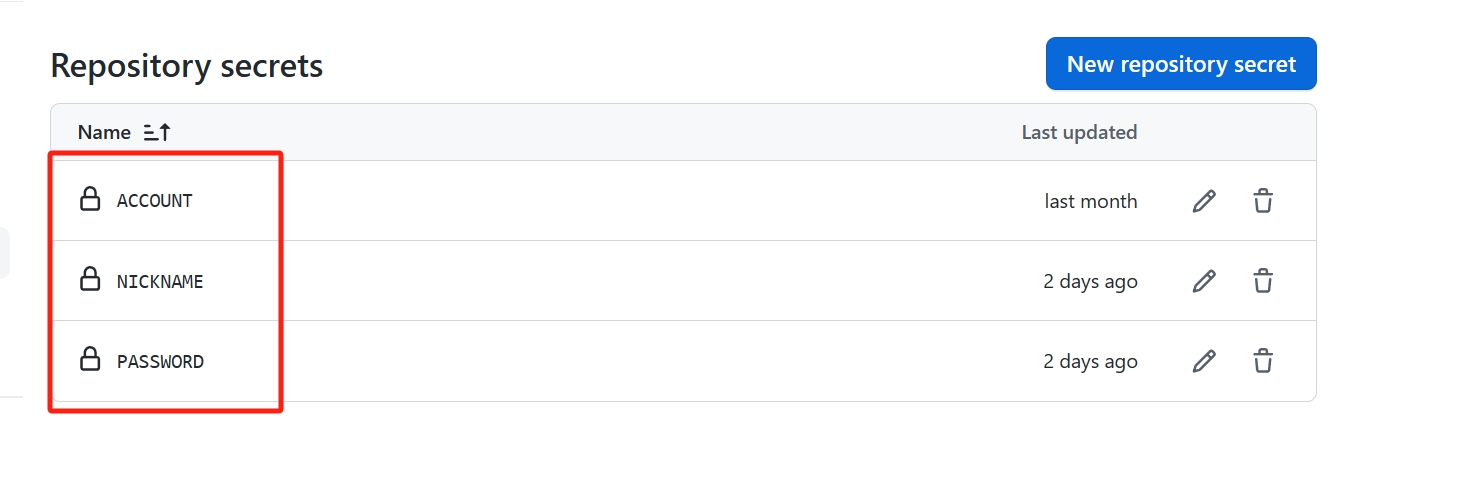
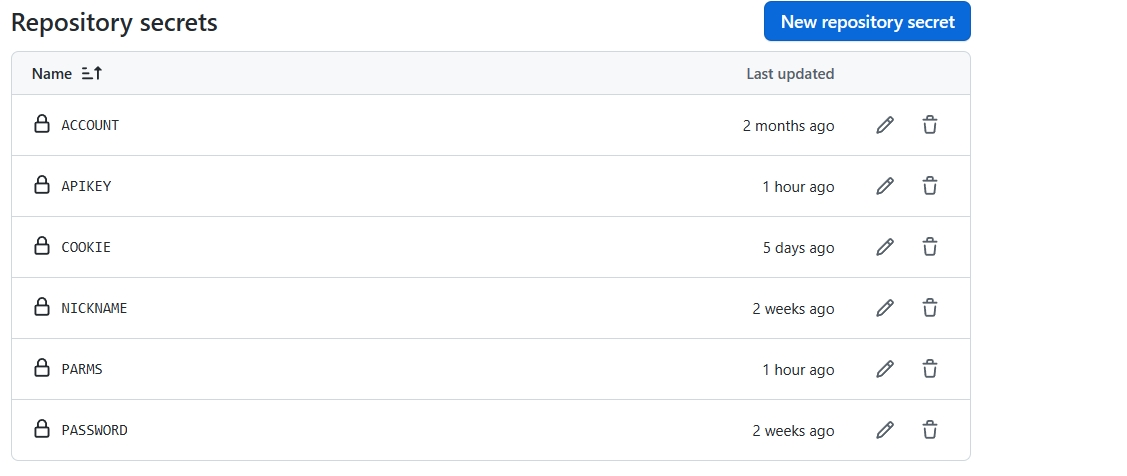
add traveling list

diff --git a/scripts/createPersonalPage.py b/scripts/createPersonalPage.py
@@ -10,6 +10,7 @@ import jieba
 from jieba import analyse
 from wordcloud import WordCloud
 from opencc import OpenCC
+import requests
 
 with open("scripts/config.json", "r") as file:
     data = json.load(file)
@@ -39,17 +40,6 @@ font_path = "./scripts/font.otf"
 cn_path_svg = "./output/postcrossing_cn.svg"
 en_path_svg = "./output/postcrossing_en.svg"
 excel_file = "./template/postcardStory.xlsx"
-
-host = 'imap.qq.com'
-user = '254904240@qq.com'
-passwd = 'hyiutupnljhccaaa'
-filename = '其他文件夹/Postcrossing' ##QQ邮箱
-
-host2 = 'imap.gmail.com'
-user2 = 'fsyflh@gmail.com'
-passwd2 = 'ltjorchxhkkymore'
-filename2 = 'INBOX' ##gmail邮箱
-
 
 if os.path.exists(dbpath):
     shutil.copyfile(dbpath, f"{dbpath}BAK")
@@ -135,6 +125,7 @@ def replaceTemplate():
         title_final = f"{desc_all}\n{title_all}"
     #print("title_all:\n",title_all)
     sheet = getUserSheet()
+    traveling = getTravelingID(account,"traveling",Cookie)
     storylist = getCardStoryList("received")
     commentlist = getCardStoryList("sent")
     calendar,series,height = createCalendar()
@@ -145,7 +136,9 @@ def replaceTemplate():
         dataNew = dataNew.replace('$title',title_final)
         print("已替换明信片墙title")
         dataNew = dataNew.replace('$sheet',sheet)
-        print("已替换明信片表格")
+        print("已替换明信片统计")
+        dataNew = dataNew.replace('$traveling',traveling)
+        print("已替换待登记list")
         dataNew = dataNew.replace('$storylist',storylist)
         print("已替换明信片故事list")
         dataNew = dataNew.replace('$commentlist',commentlist)
@@ -292,15 +285,6 @@ def createCalendar():
     height = len(year_list)*150
     return calendar_all, series_all, height
 
-dl.replaceTemplateCheck()
-excel_file="./template/postcardStory.xlsx"
-StoryXLS2DB(excel_file)
-replaceTemplate()
-
-
-
-
-
 
 def createWordCloud(type, contents):
     contents = contents.replace("nan","")
@@ -351,7 +335,50 @@ def readStoryDB(dbpath):
         result_cn += data_cn
     return result_cn,result_en
 
+# 实时获取该账号所有sent、received的明信片列表，获取每个postcardID的详细数据
+def getTravelingID(account,type,Cookie):
+    headers = {
+    'Host': 'www.postcrossing.com',
+    'X-Requested-With': 'XMLHttpRequest',
+    'Sec-Fetch-Site': 'same-origin',
+    'Accept-Language': 'zh-CN,zh-Hans;q=0.9',
+    'Accept-Encoding': 'gzip, deflate',
+    'Sec-Fetch-Mode': 'cors',
+    'Accept': 'application/json, text/javascript, */*; q=0.01',
+    'User-Agent': 'Mozilla/5.0 (iPhone; CPU iPhone OS 17_0_3 like Mac OS X) AppleWebKit/605.1.15 (KHTML, like Gecko) Version/17.0.1 Mobile/15E148 Safari/604.1',
+    'Connection': 'keep-alive',
+    'Referer': f'https://www.postcrossing.com/user/{account}/{type}',
+    'Cookie': Cookie,
+    'Sec-Fetch-Dest': 'empty'
+        }
+    url=f'https://www.postcrossing.com/user/{account}/data/{type}'    
+    response = requests.get(url,headers=headers).json()
+    stats_data = sorted(response, key=lambda x: x[7])
+    
+    table_header1 = "| 序号 | ID号 | 收件人 | 国家 | 寄出时间 | 距离 | 天数  \n"
+    table_header2 = "| --- | --- | --- | --- | --- | --- | ---  \n"
+
+    # 创建表格内容
+    table_content = ""
+    for i, stats in enumerate(stats_data, start=1):
+        id = stats[0]
+        toMember = stats[1]
+        
+        toCountry = stats[3]
+        sentDate = datetime.fromtimestamp(stats[4]).strftime('%Y/%m/%d')
+        distance = f"{stats[6]} km"
+        traveledDay = stats[7]
+        table_content += f"| {i} | {id} | {toMember} | {toCountry} | {sentDate} | {distance} | {traveledDay} \n"
+
+    # 将表头和表格内容合并
+    table = table_header1 + table_header2 + table_content
+    return table
+
+
   
+
+
+
 dl.replaceTemplateCheck()
 excel_file="./template/postcardStory.xlsx"
 StoryXLS2DB(excel_file)

diff --git a/scripts/startTask.py b/scripts/startTask.py
@@ -11,7 +11,7 @@ Cookie = data["Cookie"]
 dbpath = data["dbpath"]
 
 #tasks = ['login']
-tasks = ['login','createMap', 'createGallery', 'createPersonalPage','getTravelingStats']
+tasks = ['login','createMap', 'createGallery', 'createPersonalPage']
 
 # 创建 ArgumentParser 对象
 parser = argparse.ArgumentParser()

diff --git a/README.md b/README.md
@@ -65,8 +65,6 @@ python版本 >=3.11.2
 
    **参数填写注意事项：**
 
-   - 参数格式：不同组的配置用英文逗号隔开，组内的不同参数则通过‘//’分隔，QQ邮箱、谷歌邮箱的host可以参考以下内容，其他邮箱的host需要自行查询和调试。
-
    - QQ邮箱、谷歌邮箱的密码需要申请专用的app密码
 
      参考：
@@ -76,6 +74,9 @@ python版本 >=3.11.2
      [谷歌邮箱（@gmail.com）：两步验证+应用专用密码登录 - 知乎 (zhihu.com)](https://zhuanlan.zhihu.com/p/483277240)
 
    - 参数说明：
+        
+        不同组的配置用英文逗号隔开，组内的不同参数则通过‘//’分隔，QQ邮箱、谷歌邮箱的host可以参考以下内容，其他邮箱的host需要自行查询和调试。
+        
         邮件对应的目录一般默认为“**INBOX**"，如果之前你已经将邮件挪到其他文件夹，则需要修改以下./scripts/mailTrack.py的内容，将注释去掉，然后运行`"imap.qq.com//254XXXX40@qq.com//hyiXXXXccaaa//INBOX`先查询自己账号的邮箱有哪些文件夹，然后在运行参数中修改正确为的文件夹：`"imap.qq.com//254XXXX40@qq.com//hyiXXXXccaaa//其他文件夹/postcrossing`
 
    ```
@@ -83,6 +84,8 @@ python版本 >=3.11.2
            # for f in mailbox.folder.list():
            #     print(f) #查看当前账号的文件夹列表
    ```
+
+   - 小牛翻译API：用于翻译回复邮件的内容，官网：niutrans.com，注册登陆后，可通过[小牛翻译控制台 (niutrans.com)](https://niutrans.com/cloud/account_info/info)右边的**API-KEY**即可
 
    - 如果抓取数据时，发现无法获取邮件，请检查：是否有开通收取所有邮件的选项。
 
@@ -149,6 +152,8 @@ on:
 - account：你的postcrossing账号名称
 - password：你的postcrossing账号密码
 - nickname：你的vuepress的fronttage的category:- XXX 对应的名称
+- parm：邮件参数，如："imap.qq.com//254XXXX40@qq.com//hyiXXXXccaaa//其他文件夹/Postcrossing,imap.gmail.com//fsXXXX@gmail.com//ltjorXXXXmore//postcrossing" （说明详见步骤一）
+- apikey：小牛翻译的api
 
 > 添加好后的变量如下图所示
 >

diff --git a/output/信息汇总.md b/output/信息汇总.md
@@ -388,6 +388,24 @@ const option = {
 | 33 | United Kingdom :gb: | 2 | 1 | 34天 | 18天 | 34天 | 18天 
 
 
+
+
+@tab 还在漂泊的明信片
+
+| 序号 | ID号 | 收件人 | 国家 | 寄出时间 | 距离 | 天数  
+| --- | --- | --- | --- | --- | --- | ---  
+| 1 | CN-3640692 | Matin | DE | 2023/12/04 | 9064 km | 0 
+| 2 | CN-3637956 | Zodiak | RU | 2023/11/30 | 5633 km | 4 
+| 3 | CN-3637489 | Engel76 | DE | 2023/11/29 | 8894 km | 5 
+| 4 | CN-3630892 | Lada_zam06 | RU | 2023/11/19 | 5633 km | 15 
+| 5 | CN-3627725 | craftea | CA | 2023/11/14 | 12392 km | 20 
+| 6 | CN-3624713 | Tonka2505 | DE | 2023/11/09 | 8953 km | 25 
+| 7 | CN-3624711 | Pando4ka | RU | 2023/11/09 | 7123 km | 25 
+| 8 | CN-3610302 | Katerina199 | BY | 2023/10/17 | 7775 km | 48 
+| 9 | CN-3610299 | RailiH | FI | 2023/10/17 | 7822 km | 48 
+| 10 | CN-3610297 | adillon | US | 2023/10/17 | 12780 km | 48 
+
+
 :::
 
 ## 四.明信片故事

diff --git a/template/信息汇总_template.md b/template/信息汇总_template.md
@@ -240,6 +240,12 @@ const option = {
 
 $sheet
 
+
+
+@tab 还在漂泊的明信片
+
+$traveling
+
 :::
 
 ## 四.明信片故事
